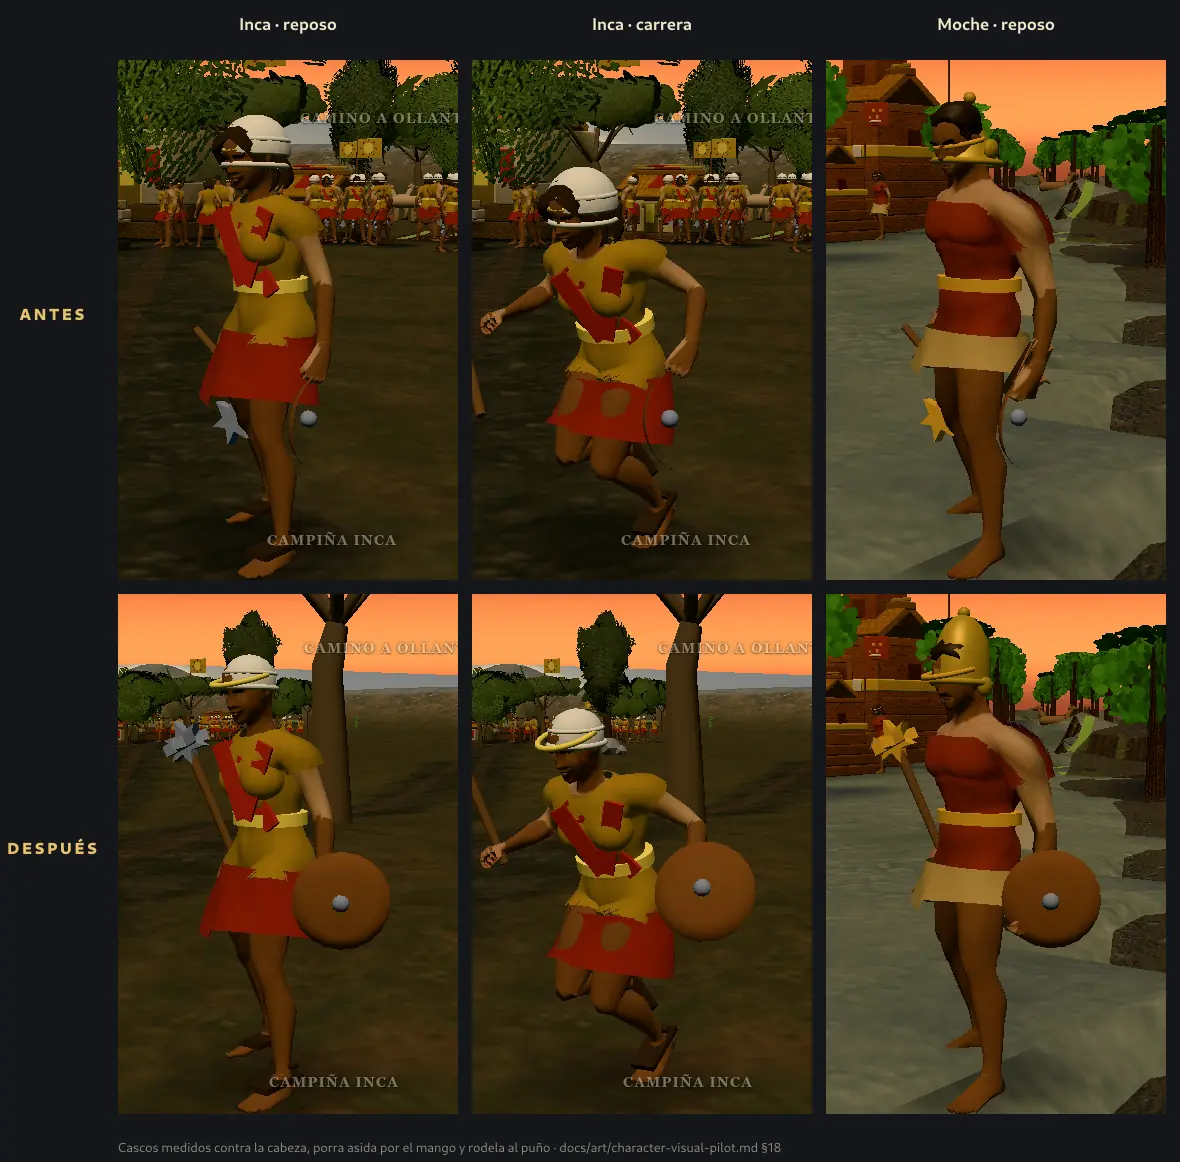
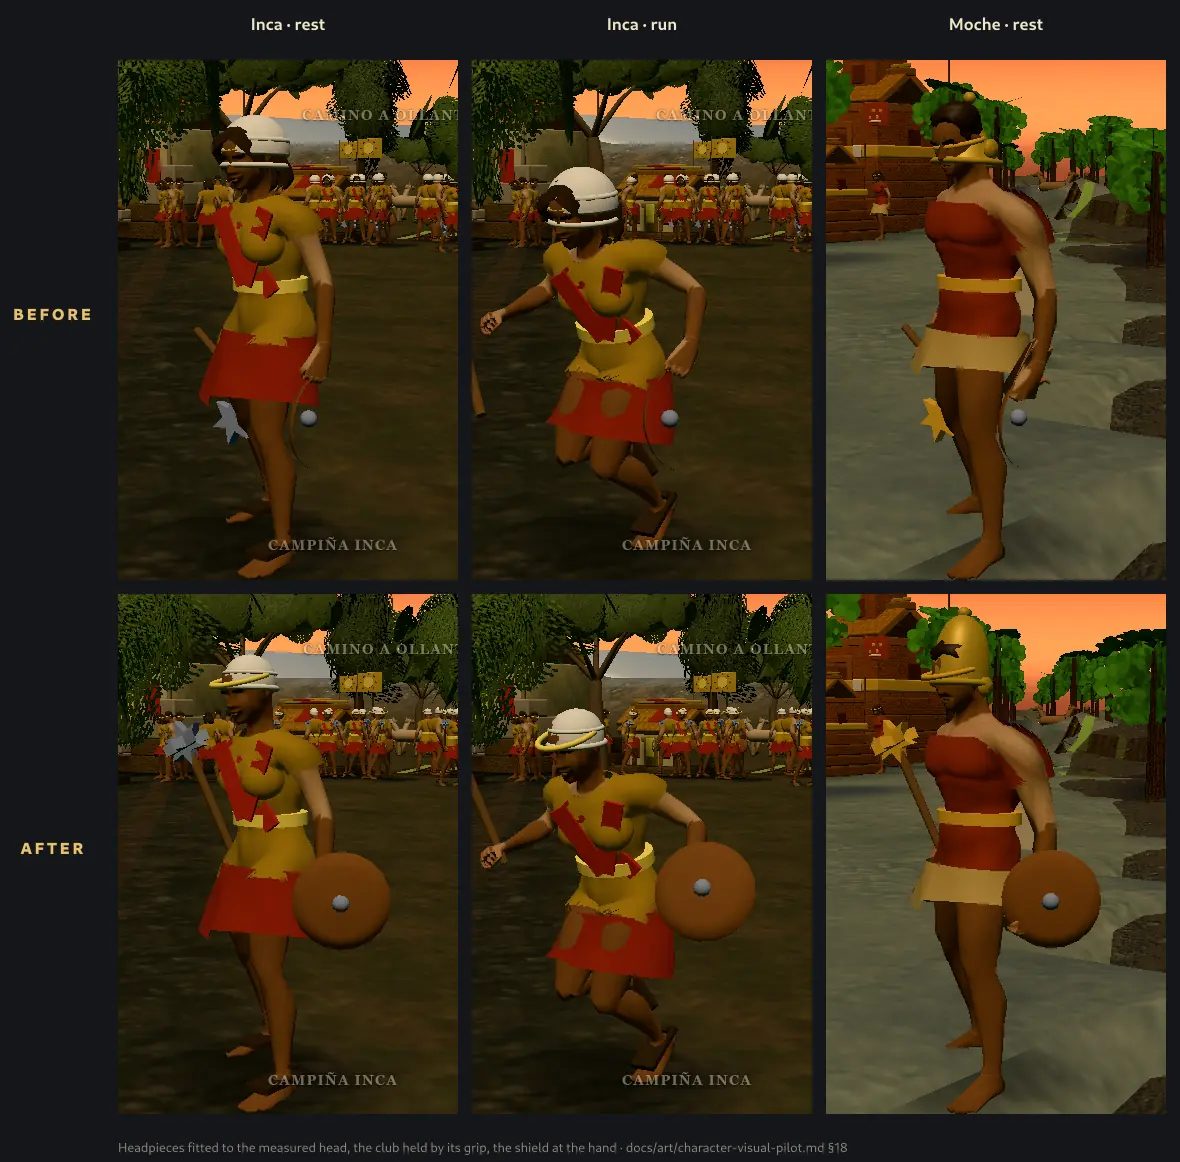
refactor(characters): share the bone-to-root solve and the head fit
Review follow-up:
- `boneToRoot` in rigAttire.ts replaces the copy of the same walk in both weapon grips.
- `fittedCap`/`headFit` replace the duplicated cap+rim construction; the ear-spool
  base is a constant; the melee attack uses `identity()` instead of a quaternion
  named `alongFist` that was always identity.
- `selectCases` in character_pilot_cases.mjs serves `--only` to the capture and the
  bench (via `cliArg`) and throws on an unknown name instead of silently running all.
- The before/after sheet's labels are English; the capture docstring points at §18.
- ADR 0009 is Proposed: the author accepts it in review (rule 6).
- docs/design/audio.md no longer cites the old 28 MB cap.

diff --git a/src/rendering/workerAttire.ts b/src/rendering/workerAttire.ts
@@ -9,6 +9,7 @@ import {
   HERO_HIDDEN_PARTS,
   HERO_WEAPON_PARTS,
   bodyOnlyShadows,
+  boneToRoot,
   createRigAttireTools,
   extrudedPlate,
   latheProfile,
@@ -82,10 +83,24 @@ function starPlate(outer: number, inner: number, points: number, thickness: numb
  * 0.145 dome was centred on the bone and 3 cm behind the skull). Everything on the head is fitted here,
  * as the sash is fitted to the waist.
  */
-export const HEAD_FIT = {
+export interface HeadFit {
+  crown: number;
+  brow: number;
+  radius: number;
+  centreZ: number;
+}
+
+export const HEAD_FIT: Record<'m' | 'f', HeadFit> = {
   m: { crown: 0.292, brow: 0.12, radius: 0.102, centreZ: 0.04 },
   f: { crown: 0.25, brow: 0.11, radius: 0.105, centreZ: 0.033 },
-} as const;
+};
+
+/** Ear-spool base in head-local space: inside the skull at ear height, so only its flange reads. */
+const EAR_FIT = { x: 0.088, y: 0.115, z: 0.02 } as const;
+
+function headFit(male: boolean): HeadFit {
+  return HEAD_FIT[male ? 'm' : 'f'];
+}
 
 /** A fitted cap from the brow to the crown, as `[radius, y]` pairs; the caller scales and centres it. */
 function capProfile(brow: number, crown: number, radius: number): [number, number][] {
@@ -99,6 +114,23 @@ function capProfile(brow: number, crown: number, radius: number): [number, numbe
     [radius * 0.33, brow + span * 0.95],
     [0, crown],
   ];
+}
+
+/**
+ * The lathe cap and its rim, fitted to the head: shared by the quilted cotton cap and the conical helmet,
+ * which differ only in how high they rise and what they add above the crown.
+ */
+function fittedCap(
+  fit: HeadFit,
+  crown: number,
+  radius: number,
+  tube = 0.012,
+): [THREE.BufferGeometry, THREE.BufferGeometry] {
+  const cap = latheProfile(capProfile(fit.brow, crown, radius), 18);
+  cap.scale(1, 1, 1.1).translate(0, 0, fit.centreZ);
+  const rim = new THREE.TorusGeometry(radius, tube, 5, 18).rotateX(Math.PI / 2);
+  rim.scale(1, 1, 1.1).translate(0, fit.brow + 0.006, fit.centreZ);
+  return [cap, rim];
 }
 
 /**
@@ -204,14 +236,7 @@ function andeanWeaponGrip(rig: RigInstance, weapon: THREE.Object3D): AndeanWeapo
   const root = rig.root;
   const hand = root.getObjectByName('hand_r');
   if (!hand || weapon.parent !== hand) return null;
-  const toRoot = (bone: THREE.Object3D, out: THREE.Matrix4): THREE.Matrix4 => {
-    out.identity();
-    for (let q: THREE.Object3D | null = bone; q && q !== root; q = q.parent) {
-      q.updateMatrix();
-      out.premultiply(q.matrix);
-    }
-    return out;
-  };
+  const toRoot = (bone: THREE.Object3D, out: THREE.Matrix4): THREE.Matrix4 => boneToRoot(root, bone, out);
   const handM = new THREE.Matrix4();
   const handQ = new THREE.Quaternion();
   const target = new THREE.Quaternion();
@@ -307,7 +332,7 @@ export function dressCaralWorker(rig: RigInstance, variant: RigVariant = 'caral_
     // Band + face paint in one vertex-coloured mesh: the old two-to-four head attachments were
     // separate draws on every Andean unit. The band is fitted to the skull instead of the bone: the old
     // 0.098 ring sat inside the temples, so only its front arc showed as a bar across the face.
-    const fit = HEAD_FIT[male ? 'm' : 'f'];
+    const fit = headFit(male);
     // At the hairline, not the brow: a ring there is the widest cross-section of the head, so it hugs it
     // instead of passing in front of the eyes like a visor.
     const bandGeometry = new THREE.TorusGeometry(fit.radius * 1.06, 0.011, 6, 20).rotateX(Math.PI / 2);
@@ -515,11 +540,8 @@ export function dressCaralWorker(rig: RigInstance, variant: RigVariant = 'caral_
       // Conical metal helmet with a rim and a top knob; the dossier documents the conical shape. It is a
       // fitted cap that rises to a point, not a plain cone: a straight cone narrower than the skull sank
       // into the crown and only its tip showed.
-      const fit = HEAD_FIT[male ? 'm' : 'f'];
-      const cap = latheProfile(capProfile(fit.brow, fit.crown + 0.11, fit.radius * 1.1), 14);
-      cap.scale(1, 1, 1.1).translate(0, 0, fit.centreZ);
-      const rim = new THREE.TorusGeometry(fit.radius * 1.1, 0.014, 6, 18).rotateX(Math.PI / 2);
-      rim.scale(1, 1, 1.1).translate(0, fit.brow + 0.008, fit.centreZ);
+      const fit = headFit(male);
+      const [cap, rim] = fittedCap(fit, fit.crown + 0.11, fit.radius * 1.1, 0.014);
       const helmetGeometry = mergePieces([
         cap,
         rim,
@@ -527,7 +549,7 @@ export function dressCaralWorker(rig: RigInstance, variant: RigVariant = 'caral_
       ]);
       if (helmetGeometry) {
         const helmet = addMesh(helmetGeometry, metalMat, 'attire_andean_helmet');
-        attach('Head', helmet, new THREE.Vector3(headBone.x, headBone.y, headBone.z));
+        attach('Head', helmet, headBone);
       }
     }
     if (spec.backflap && soldier && spine) {
@@ -539,20 +561,20 @@ export function dressCaralWorker(rig: RigInstance, variant: RigVariant = 'caral_
       attach('spine_03', backflap, new THREE.Vector3(spine.x, spine.y - 0.1, spine.z - 0.18));
     }
     if (spec.ear && headBone && metalMat) {
-      // The spool base sits inside the skull at ear height (0.088 at y 0.115; the temples are only 0.08
-      // wide there) so only the flange reads, instead of a hoop floating behind the jaw.
+      // The spool base sits inside the skull at ear height (the temples are only 0.08 wide there), so only
+      // the flange reads, instead of a hoop floating behind the jaw.
       const spools: THREE.BufferGeometry[] = [];
       for (const side of [-1, 1]) {
         spools.push(
           earSpool()
             .rotateZ((-side * Math.PI) / 2)
-            .translate(side * 0.088, 0.115, 0.02),
+            .translate(side * EAR_FIT.x, EAR_FIT.y, EAR_FIT.z),
         );
       }
       const spoolGeometry = mergePieces(spools);
       if (spoolGeometry) {
         const ears = addMesh(spoolGeometry, metalMat, 'attire_andean_ear');
-        attach('Head', ears, new THREE.Vector3(headBone.x, headBone.y, headBone.z));
+        attach('Head', ears, headBone);
       }
     }
     if (soldier && pelvis && spec.belt) {
@@ -639,13 +661,10 @@ export function dressCaralWorker(rig: RigInstance, variant: RigVariant = 'caral_
     // The quilted cotton cap covers the skull from the brow to the crown, so the hair goes under it.
     show(male ? 'Hair_m' : 'Hair_f', false);
     if (headBone) {
-      const fit = HEAD_FIT[male ? 'm' : 'f'];
+      const fit = headFit(male);
       // An ellipsoidal cap on the measured skull, not a hemisphere on the bone: the old 0.145 dome with
       // three hoops sat on the crown like a bowl and left the hair showing under its rim.
-      const cap = latheProfile(capProfile(fit.brow, fit.crown, fit.radius), 18);
-      cap.scale(1, 1, 1.1).translate(0, 0, fit.centreZ);
-      const rim = new THREE.TorusGeometry(fit.radius, 0.012, 5, 18).rotateX(Math.PI / 2);
-      rim.scale(1, 1, 1.1).translate(0, fit.brow + 0.006, fit.centreZ);
+      const [cap, rim] = fittedCap(fit, fit.crown, fit.radius);
       const seam = new THREE.TorusGeometry(fit.radius * 0.94, 0.009, 4, 18).rotateX(Math.PI / 2);
       seam.scale(1, 1, 1.1).translate(0, fit.brow + (fit.crown - fit.brow) * 0.45, fit.centreZ);
       const helmet = mergeColoredGeometry([

diff --git a/src/rendering/uniformAttire.ts b/src/rendering/uniformAttire.ts
@@ -5,6 +5,7 @@ import type { RigInstance } from './RigInstance';
 import type { RigVariantHandle } from './rigVariants';
 import {
   bodyOnlyShadows,
+  boneToRoot,
   createRigAttireTools,
   extrudedPlate,
   mergeColoredGeometry,
@@ -476,14 +477,7 @@ function firearmGrip(rig: RigInstance, weapon: THREE.Object3D, ranged: boolean):
   if (!hand || !forearm || weapon.parent !== hand) return null;
   // Everything is solved in the rig root's space (+Z forward, +Y up, as the attire was dressed), from the
   // bones' local transforms only: no world-matrix walk per unit per frame.
-  const toRoot = (bone: THREE.Object3D, out: THREE.Matrix4): THREE.Matrix4 => {
-    out.identity();
-    for (let q: THREE.Object3D | null = bone; q && q !== root; q = q.parent) {
-      q.updateMatrix();
-      out.premultiply(q.matrix);
-    }
-    return out;
-  };
+  const toRoot = (bone: THREE.Object3D, out: THREE.Matrix4): THREE.Matrix4 => boneToRoot(root, bone, out);
   const handM = new THREE.Matrix4();
   const forearmM = new THREE.Matrix4();
   const handQ = new THREE.Quaternion();

diff --git a/src/rendering/rigAttire.ts b/src/rendering/rigAttire.ts
@@ -64,6 +64,19 @@ export interface RigAttireTools {
   dispose(): void;
 }
 
+/**
+ * Compose a bone's transform up to (but excluding) the rig root. Both weapon grips solve their aim in the
+ * root's space from local matrices, so a per-frame update never walks world matrices per unit.
+ */
+export function boneToRoot(root: THREE.Object3D, bone: THREE.Object3D, out: THREE.Matrix4): THREE.Matrix4 {
+  out.identity();
+  for (let q: THREE.Object3D | null = bone; q && q !== root; q = q.parent) {
+    q.updateMatrix();
+    out.premultiply(q.matrix);
+  }
+  return out;
+}
+
 /** Show the shared humanoid body and hide every culture-specific attachment. */
 export function showSharedHumanoidBody(root: THREE.Object3D, male: boolean): void {
   const show = (name: string, visible: boolean): void => {

diff --git a/docs/design/audio.md b/docs/design/audio.md
@@ -69,7 +69,7 @@ coast; Vilcabamba → jungle; Tarapacá → altiplano; the rest → Andes). A ma
 ## What is not in this phase
 
 - **No recorded samples, voices or licensed music.** Adding them needs a provenance entry per file, a
-  licence review and a size-budget decision: the shipped build is close to the 28 MB `dist` cap, so audio
+  licence review and a size-budget decision: the shipped build is close to the 40 MB `dist` cap, so audio
   must be compressed and lazy-loaded per period. That is a separate, explicitly approved phase.
 - No audio in replay mode beyond what the match itself triggers; the mixer is presentation-only and never
   affects the simulation, the state hash or `REPLAY_VERSION`.

diff --git a/docs/DECISIONS/README.md b/docs/DECISIONS/README.md
@@ -18,7 +18,7 @@ and mark the old one `Superseded by NNNN`.
 | 0006 | [The model-mission standard](./0006-model-mission-standard.md) | Accepted |
 | 0007 | [Local authoring tools, not CI dependencies](./0007-local-authoring-tools.md) | Accepted |
 | 0008 | [A 28 MB `dist/` budget for the cinema intros](./0008-dist-budget-28mb.md) | Accepted |
-| 0009 | [A 40 MB `dist/` budget for the site kits](./0009-dist-budget-40mb.md) | Accepted |
+| 0009 | [A 40 MB `dist/` budget for the site kits](./0009-dist-budget-40mb.md) | Proposed |
 
 ## Writing a new record
 

diff --git a/docs/DECISIONS/0009-dist-budget-40mb.md b/docs/DECISIONS/0009-dist-budget-40mb.md
@@ -1,6 +1,9 @@
 # 0009 · A 40 MB `dist/` budget for the site kits
 
-**Status:** Accepted · **Date:** 2026-11-24 · Amends [0008](./0008-dist-budget-28mb.md)
+**Status:** Proposed · **Date:** 2026-11-24 · Amends [0008](./0008-dist-budget-28mb.md)
+
+> Proposed on the project author's instruction (2026-11-24: raise the limit); the 40 MB figure is the agent's
+> proposal and the author accepts it in review, per [`README.md`](./README.md) rule 6.
 
 ## Context
 
